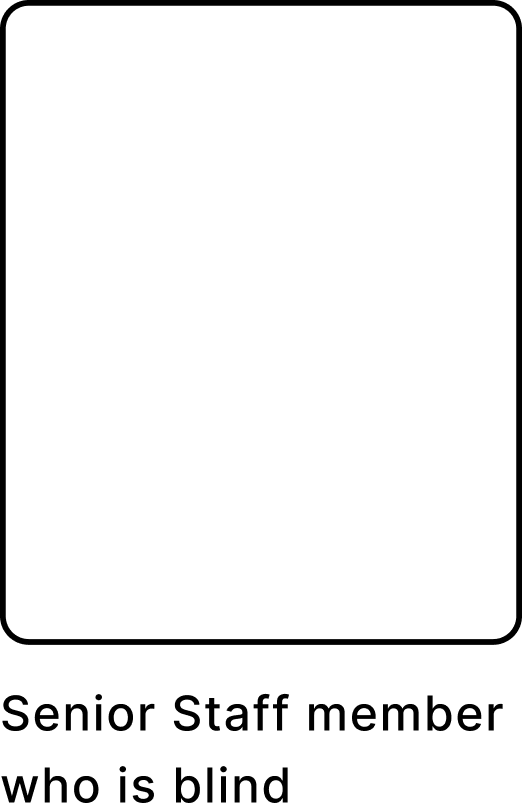
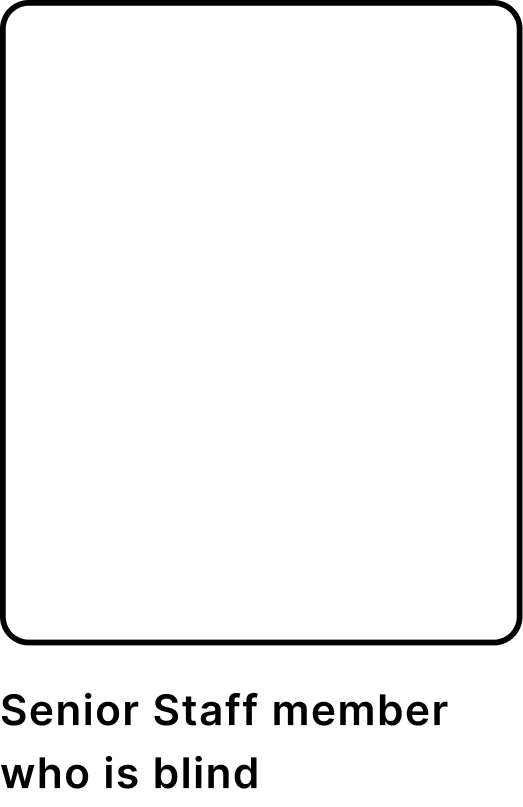
alteração de font na home page

Changed region(s): [[0.0, 0.8364, 0.9502, 1.0], [0.0, 0.7745, 0.9502, 0.8055], [0.9502, 0.0, 1.0, 0.7745]]

diff --git a/index.html b/index.html
@@ -18,9 +18,9 @@
     <!-------------------------PERSONA------------------------>
     <!------------------------------------------------------->
     <section id="index_content">
-      <h1>Persona Cards</h1>
+      <h1>Accessibility Cards</h1>
       <section id="persona_content">
-        <a href="" class="imgtxt_container">
+        <a href="blind_card.html" class="imgtxt_container">
           <img
             src="img/card1.png"
             alt="first img"

diff --git a/css/index.css b/css/index.css
@@ -22,6 +22,8 @@ header {
 .imgtxt_container {
   width: 20%;
   height: auto;
+  cursor: url("https://drive.google.com/file/d/1hZS4NpP-q7xC-8kehH41g61emZd3wPeq/view?usp=share_link"),
+    auto;
 }
 
 footer {

diff --git a/css/fonts.css b/css/fonts.css
@@ -19,7 +19,7 @@
 }
 
 h1 {
-  font-family: Inter-SemiBold;
+  font-family: Inter-Bold;
   font-size: 4.5rem;
   line-height: 84.72px;
   letter-spacing: 0.035em;
